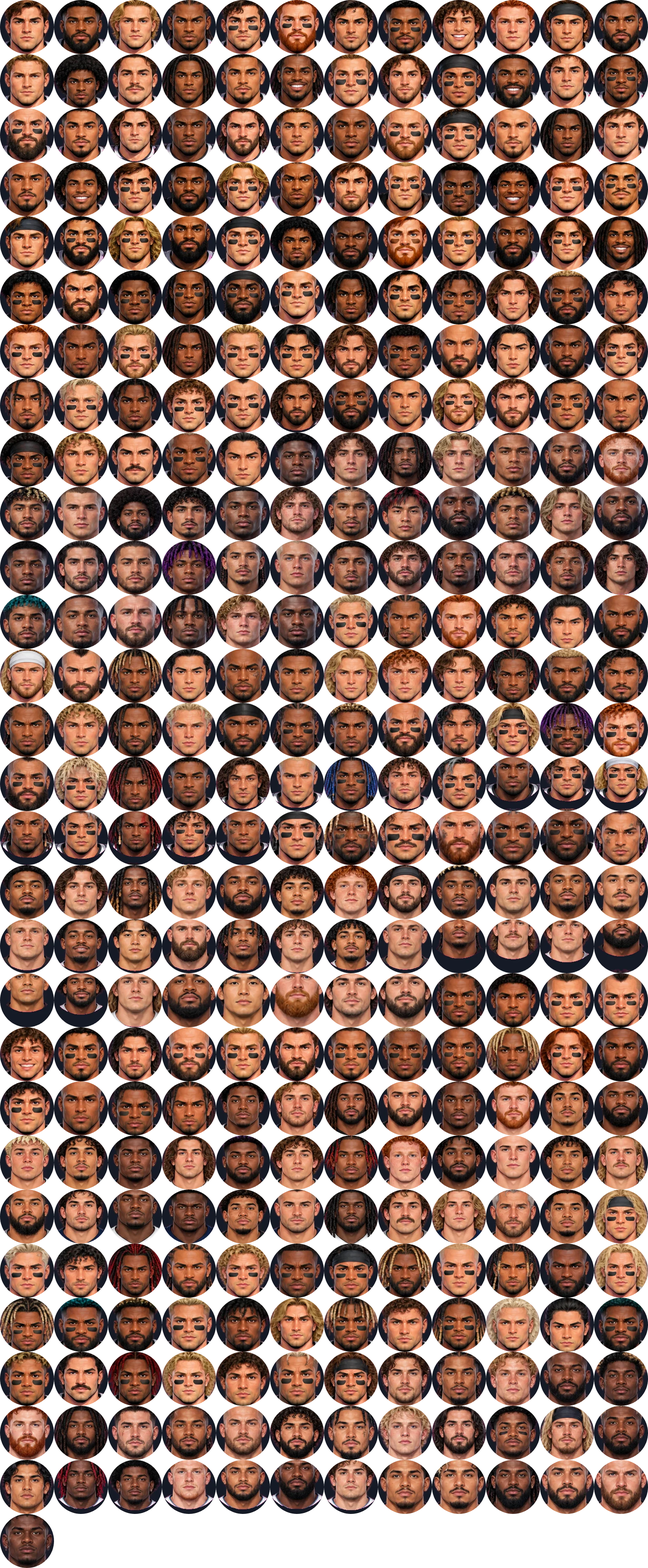
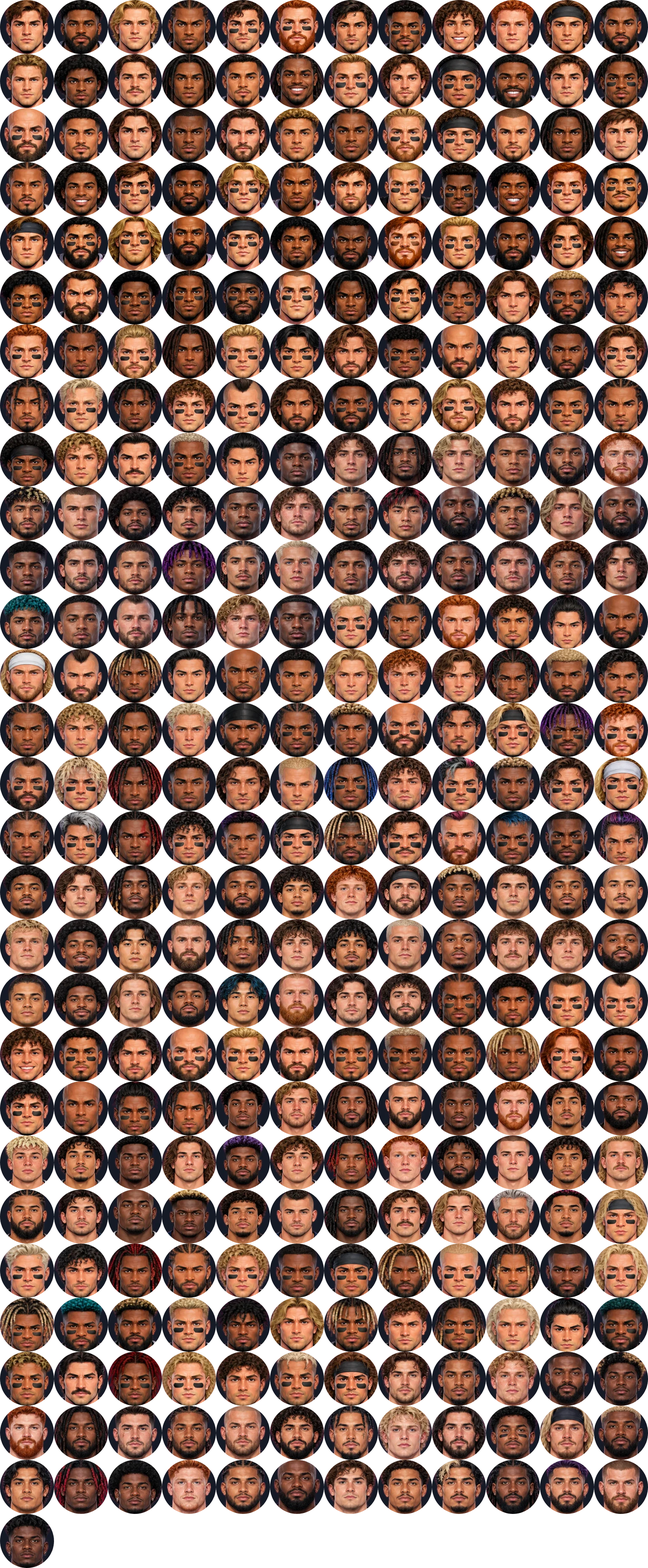
Face cropping fix
Fixed face alignment and cropping script.

diff --git a/tools/cut-faces.js b/tools/cut-faces.js
@@ -31,20 +31,36 @@ const DUP = +(process.env.DUP || 1.25); // lower = keep more look-alikes
           const k = (j * W + i) * 4; if (d[k + 3] > 245 && !pink(k)) { sx0 += i; sy0 += j; cnt++; }
         }
         const cx = sx0 / cnt, cy = sy0 / cnt, ri = Math.sqrt(cnt / Math.PI) * 0.94;
-        const tc = document.createElement('canvas'); tc.width = tc.height = S;
-        const tx = tc.getContext('2d');
-        tx.drawImage(c, cx - ri, cy - ri, ri * 2, ri * 2, 0, 0, S, S);
-        const id = tx.getImageData(0, 0, S, S), q2 = id.data;
-        // leftover ring glow / see-through edge: fold into a dark backdrop
-        for (let k = 0; k < q2.length; k += 4) {
-          const mag = q2[k] > 120 && q2[k + 1] < 80 && q2[k + 2] > 60 && q2[k + 2] > q2[k + 1] * 1.8;
-          const a = q2[k + 3] / 255, w = mag ? 0 : a;
-          q2[k] = q2[k] * w + 21 * (1 - w); q2[k + 1] = q2[k + 1] * w + 26 * (1 - w); q2[k + 2] = q2[k + 2] * w + 38 * (1 - w); q2[k + 3] = 255;
+        const cut = (x0, y0, rad) => {
+          const tc = document.createElement('canvas'); tc.width = tc.height = S;
+          const tx = tc.getContext('2d');
+          tx.drawImage(c, x0 - rad, y0 - rad, rad * 2, rad * 2, 0, 0, S, S);
+          const id = tx.getImageData(0, 0, S, S), q2 = id.data;
+          // leftover ring glow / see-through edge: fold into a dark backdrop
+          for (let k = 0; k < q2.length; k += 4) {
+            const mag = q2[k] > 120 && q2[k + 1] < 80 && q2[k + 2] > 60 && q2[k + 2] > q2[k + 1] * 1.8;
+            const a = q2[k + 3] / 255, w = mag ? 0 : a;
+            q2[k] = q2[k] * w + 21 * (1 - w); q2[k + 1] = q2[k + 1] * w + 26 * (1 - w); q2[k + 2] = q2[k + 2] * w + 38 * (1 - w); q2[k + 3] = 255;
+          }
+          tx.putImageData(id, 0, 0);
+          return tc;
+        };
+        // the pixel-mass centre above drifts on sheets with a solid backdrop, red glow or uneven rows, so the sprite
+        // tile is centred on the portrait's own ring: scan 16 ways out to the hot-pink ring, re-centre, repeat
+        const ring = (i, j) => { i = Math.round(i); j = Math.round(j); if (i < 0 || j < 0 || i >= W || j >= H) return true; const k = (j * W + i) * 4; return d[k] > 185 && d[k + 1] < 95 && d[k + 2] > 85 && d[k + 2] > d[k + 1] * 1.6; };
+        const DIRS = Array.from({ length: 16 }, (_, n) => [Math.cos(n * Math.PI / 8), Math.sin(n * Math.PI / 8)]);
+        let rx = cx, ry = cy, hits = [];
+        for (let it = 0; it < 5; it++) {
+          hits = DIRS.map(([ux, uy]) => { let run = 0; for (let t = 8; t < 160; t++) { if (ring(rx + ux * t, ry + uy * t)) { if (++run >= 3) return t - 2; } else run = 0; } return 160; });
+          DIRS.forEach(([ux, uy], n) => { rx += ux * hits[n] / DIRS.length; ry += uy * hits[n] / DIRS.length; });
         }
-        tx.putImageData(id, 0, 0);
+        const med = hits.slice().sort((p, q) => p - q)[8], agree = hits.filter(h => Math.abs(h - med) / med < 0.08).length;
+        const ringOk = agree >= 13 && med > Math.min(cw, ch) * 0.25 && med < 150;
+        // fingerprints keep using the original cut, so duplicate detection (and the face order) never changes
+        const fpc = cut(cx, cy, ri), tc = ringOk ? cut(rx, ry, med * 0.8) : fpc;
         // fingerprint (at 96px): grayscale layout, hair silhouette, edges, hair colour and skin tone
         const F = 96, fc = document.createElement('canvas'); fc.width = fc.height = F;
-        const fcx = fc.getContext('2d'); fcx.drawImage(tc, 0, 0, F, F);
+        const fcx = fc.getContext('2d'); fcx.drawImage(fpc, 0, 0, F, F);
         const G = 20, fp = document.createElement('canvas'); fp.width = fp.height = G;
         const fx = fp.getContext('2d'); fx.drawImage(fc, F * 0.1, F * 0.05, F * 0.8, F * 0.8, 0, 0, G, G);
         const px = fx.getImageData(0, 0, G, G).data, gray = [];

diff --git a/index.html b/index.html
@@ -17,7 +17,7 @@
   <link rel="preconnect" href="https://fonts.googleapis.com">
   <link rel="preconnect" href="https://fonts.gstatic.com" crossorigin>
   <link href="https://fonts.googleapis.com/css2?family=Inter:wght@400;500;600;700;800&family=Oswald:wght@500;600;700&display=swap" rel="stylesheet">
-  <link rel="stylesheet" href="css/app.css?v=19">
+  <link rel="stylesheet" href="css/app.css?v=20">
 </head>
 <body data-theme="night">
   <div id="stage"><div id="app"></div></div>
@@ -25,19 +25,19 @@
   <div id="toast-root"></div>
   <div id="tut-root"></div>
   <noscript>Pro Blitz needs JavaScript enabled.</noscript>
-  <script src="js/util.js?v=19"></script>
-  <script src="js/store.js?v=19"></script>
-  <script src="js/data.js?v=19"></script>
-  <script src="js/logo.js?v=19"></script>
-  <script src="js/playbook.js?v=19"></script>
-  <script src="js/engine.js?v=19"></script>
-  <script src="js/live.js?v=19"></script>
-  <script src="js/league.js?v=19"></script>
-  <script src="js/forum.js?v=19"></script>
-  <script src="js/career.js?v=19"></script>
-  <script src="js/sfx.js?v=19"></script>
-  <script src="js/ui.js?v=19"></script>
-  <script src="js/tutorial.js?v=19"></script>
-  <script src="js/app.js?v=19"></script>
+  <script src="js/util.js?v=20"></script>
+  <script src="js/store.js?v=20"></script>
+  <script src="js/data.js?v=20"></script>
+  <script src="js/logo.js?v=20"></script>
+  <script src="js/playbook.js?v=20"></script>
+  <script src="js/engine.js?v=20"></script>
+  <script src="js/live.js?v=20"></script>
+  <script src="js/league.js?v=20"></script>
+  <script src="js/forum.js?v=20"></script>
+  <script src="js/career.js?v=20"></script>
+  <script src="js/sfx.js?v=20"></script>
+  <script src="js/ui.js?v=20"></script>
+  <script src="js/tutorial.js?v=20"></script>
+  <script src="js/app.js?v=20"></script>
 </body>
 </html>

diff --git a/css/app.css b/css/app.css
@@ -794,7 +794,7 @@ body[data-theme="day"] .stk-t-silver { color: #475569; } body[data-theme="day"] 
 .cc-form { font-size: 10.5px; color: #8391a7; line-height: 1.2; overflow: hidden; display: -webkit-box; -webkit-line-clamp: 2; -webkit-box-orient: vertical; }
 
 /* ── player faces (sprite cut from src/img/face sheets: 12 x 10, ring drawn in team colours) ── */
-.face { position: relative; flex-shrink: 0; display: inline-block; width: var(--fs); height: var(--fs); border-radius: 50%; background: #151a26 url('../src/img/face/faces.webp') no-repeat; background-size: 1200% 1000%; border: max(2px, calc(var(--fs) * 0.055)) solid var(--ring); box-shadow: 0 0 0 1.5px var(--ring2), 0 2px 6px rgba(0, 0, 0, .35); box-sizing: border-box; background-origin: padding-box; background-clip: padding-box; }
+.face { position: relative; flex-shrink: 0; display: inline-block; width: var(--fs); height: var(--fs); border-radius: 50%; background: #151a26 url('../src/img/face/faces.webp?v=2') no-repeat; background-size: 1200% 1000%; border: max(2px, calc(var(--fs) * 0.055)) solid var(--ring); box-shadow: 0 0 0 1.5px var(--ring2), 0 2px 6px rgba(0, 0, 0, .35); box-sizing: border-box; background-origin: padding-box; background-clip: padding-box; }
 .face-num { position: absolute; right: -4px; bottom: -3px; min-width: calc(var(--fs) * 0.36); height: calc(var(--fs) * 0.32); padding: 0 3px; border-radius: 999px; border: 1.5px solid; font: 700 calc(var(--fs) * 0.21)/1 var(--f-display); display: grid; place-items: center; box-sizing: border-box; }
 .gain-tag { font-weight: 800; }
 .chip-btn { display: inline-flex; align-items: center; gap: 6px; padding: 3px 9px 3px 3px; border-radius: 999px; background: var(--surface-3); border: 1px solid var(--line, rgba(255,255,255,.08)); color: var(--text); }
